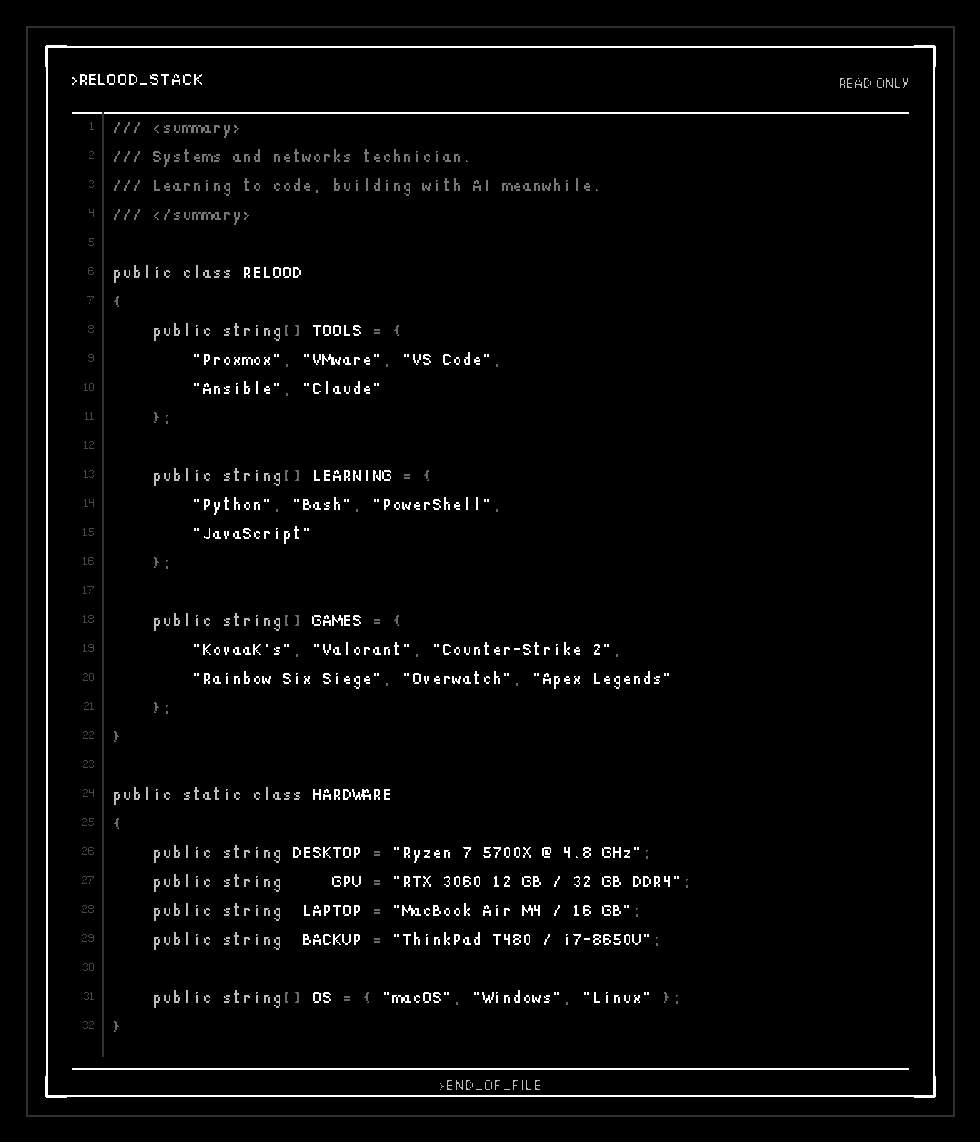
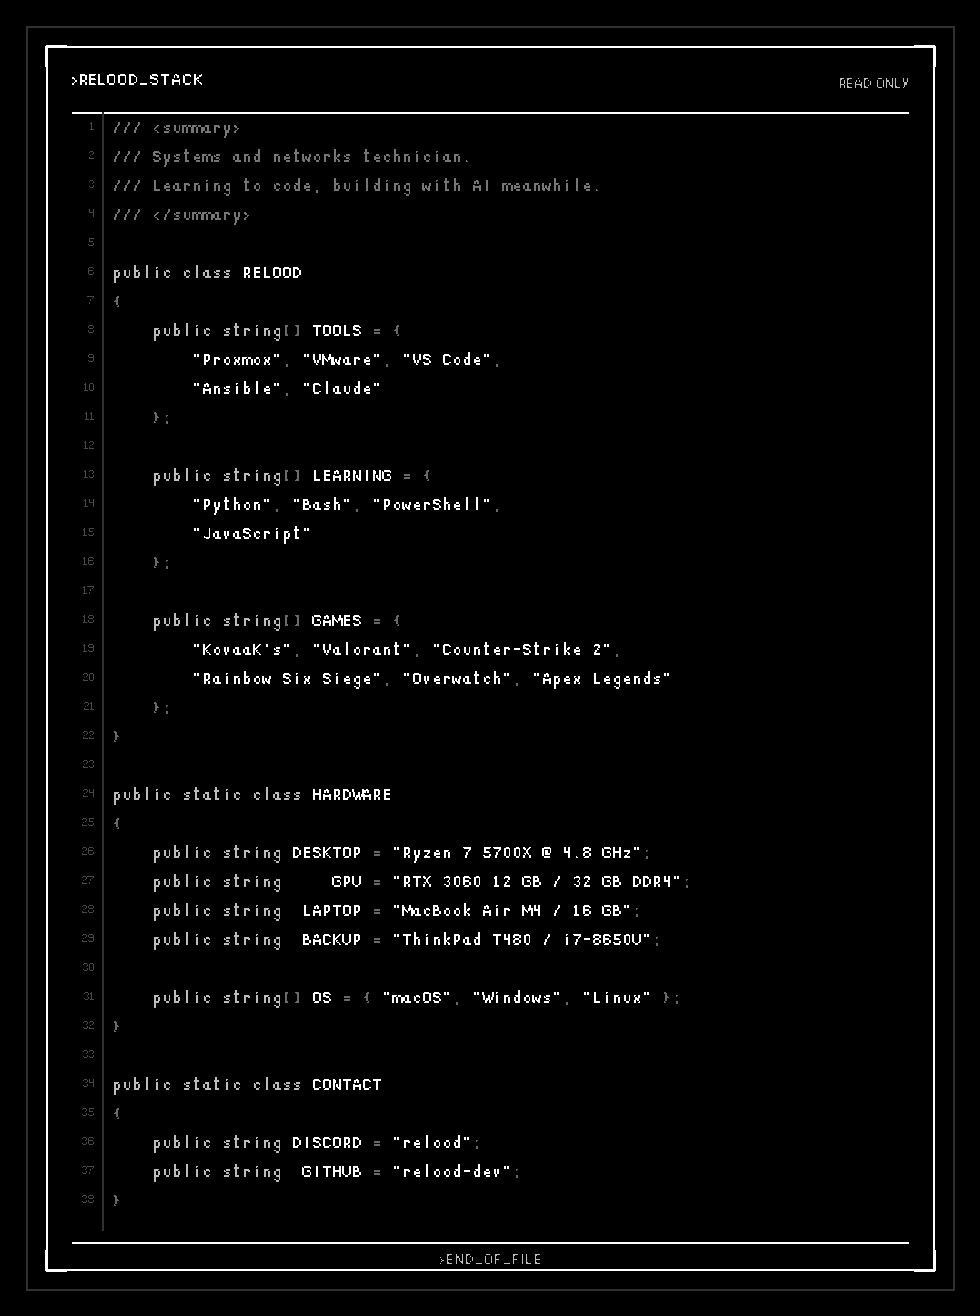
Ajout du bloc contact avec le Discord

diff --git a/make_stack.py b/make_stack.py
@@ -83,6 +83,12 @@ def make(games, out_path="stack-v1.png"):
         "",
         '    public string[] OS = { "macOS", "Windows", "Linux" };',
         "}",
+        "",
+        "public static class CONTACT",
+        "{",
+        '    public string DISCORD = "relood";',
+        '    public string  GITHUB = "relood-dev";',
+        "}",
     ]
 
     top, bot = 118, 96
